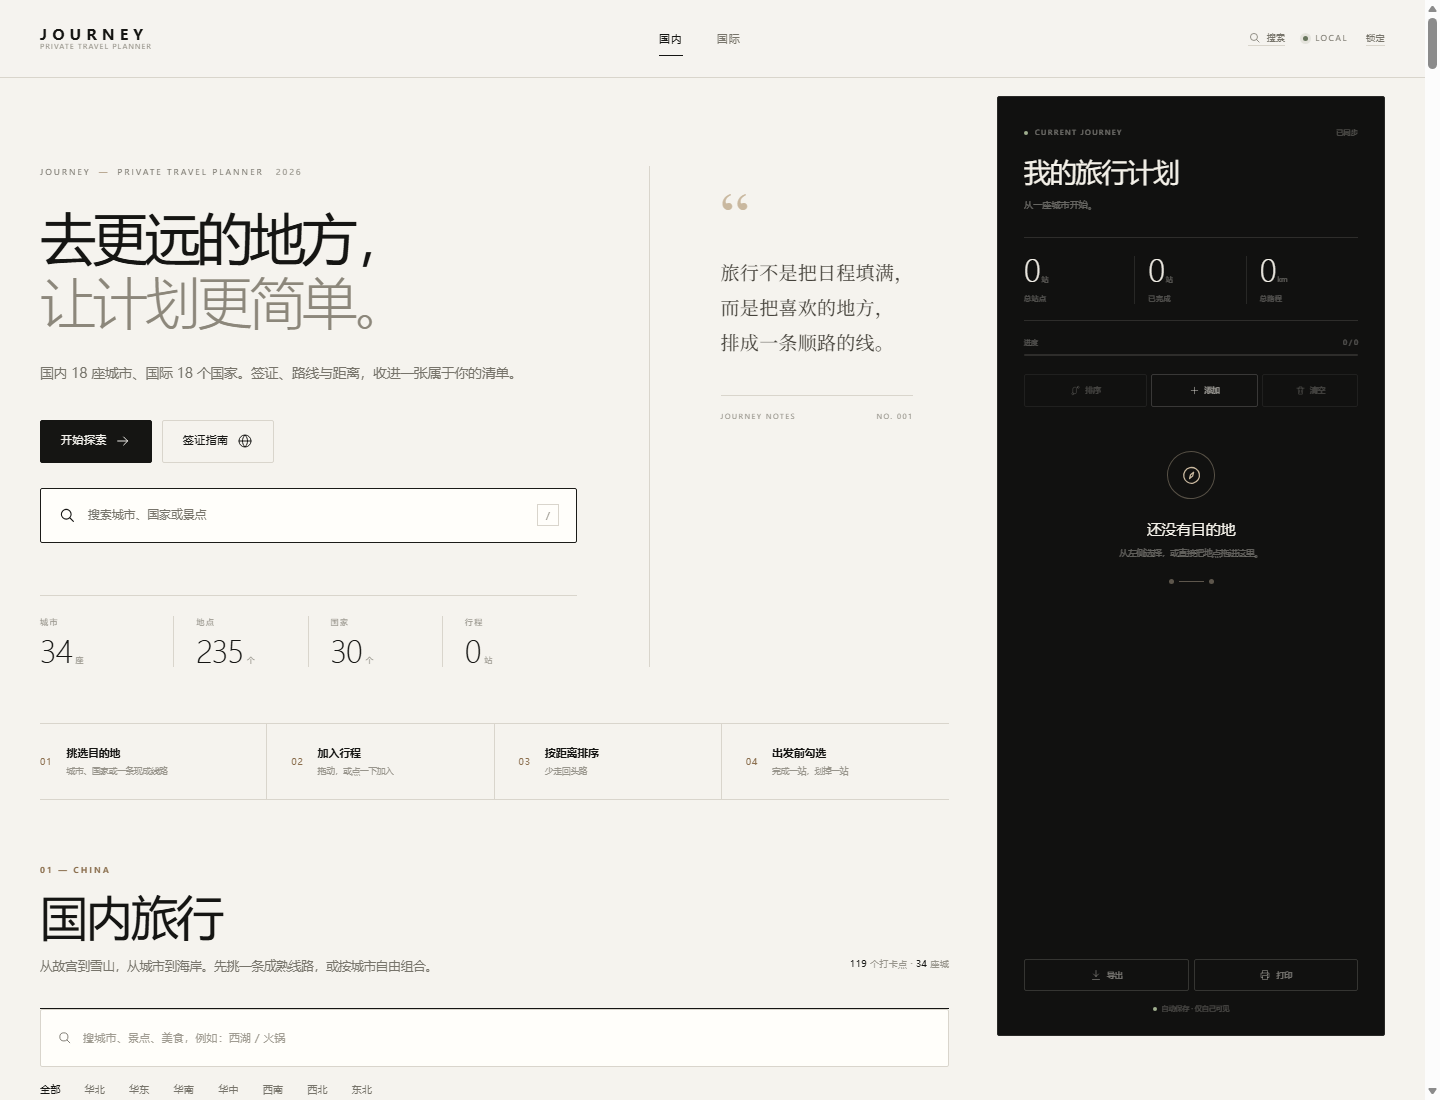
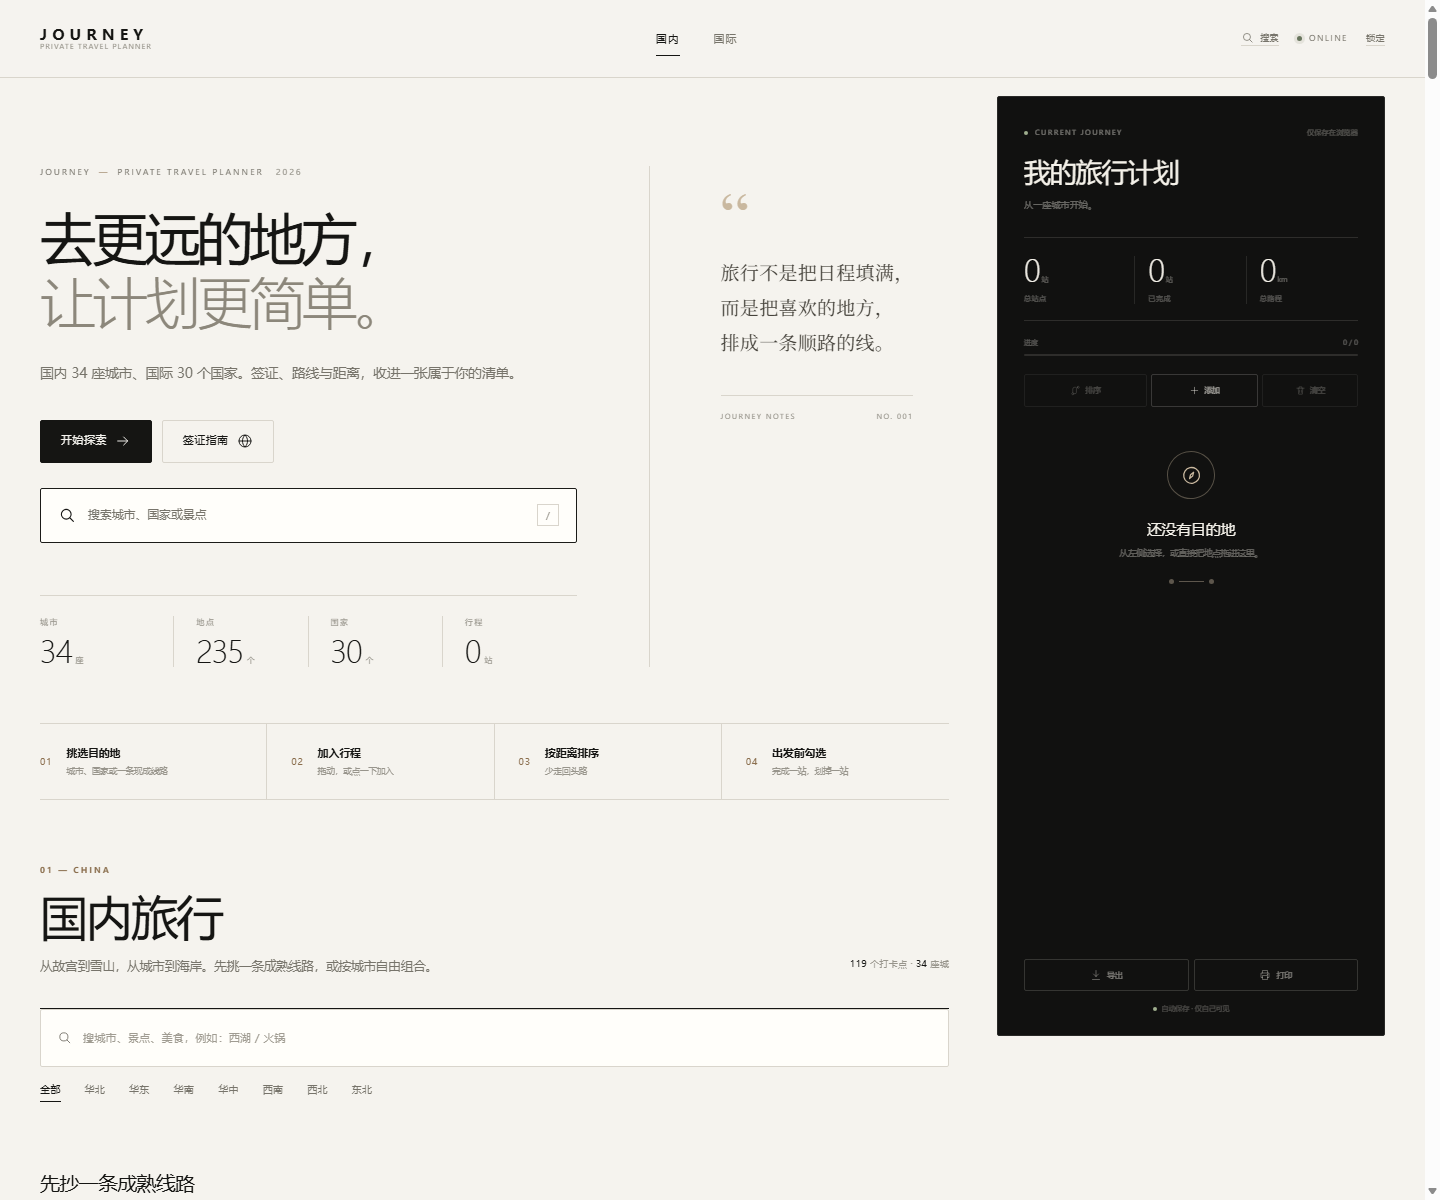
Expand catalog, add password gate and global search

diff --git a/README.md b/README.md
@@ -22,7 +22,7 @@
 
 需要 **JDK 17+**。
 
-双击 `run.bat`，浏览器打开 `http://127.0.0.1:8080/`。只在本机可用，不需要登录。
+双击 `run.bat`，浏览器打开 `http://127.0.0.1:8080/`。进入页面需要密码 **`JOURNEY-2026`**；只在本机可用。
 
 ### 2. 手机在线访问
 
